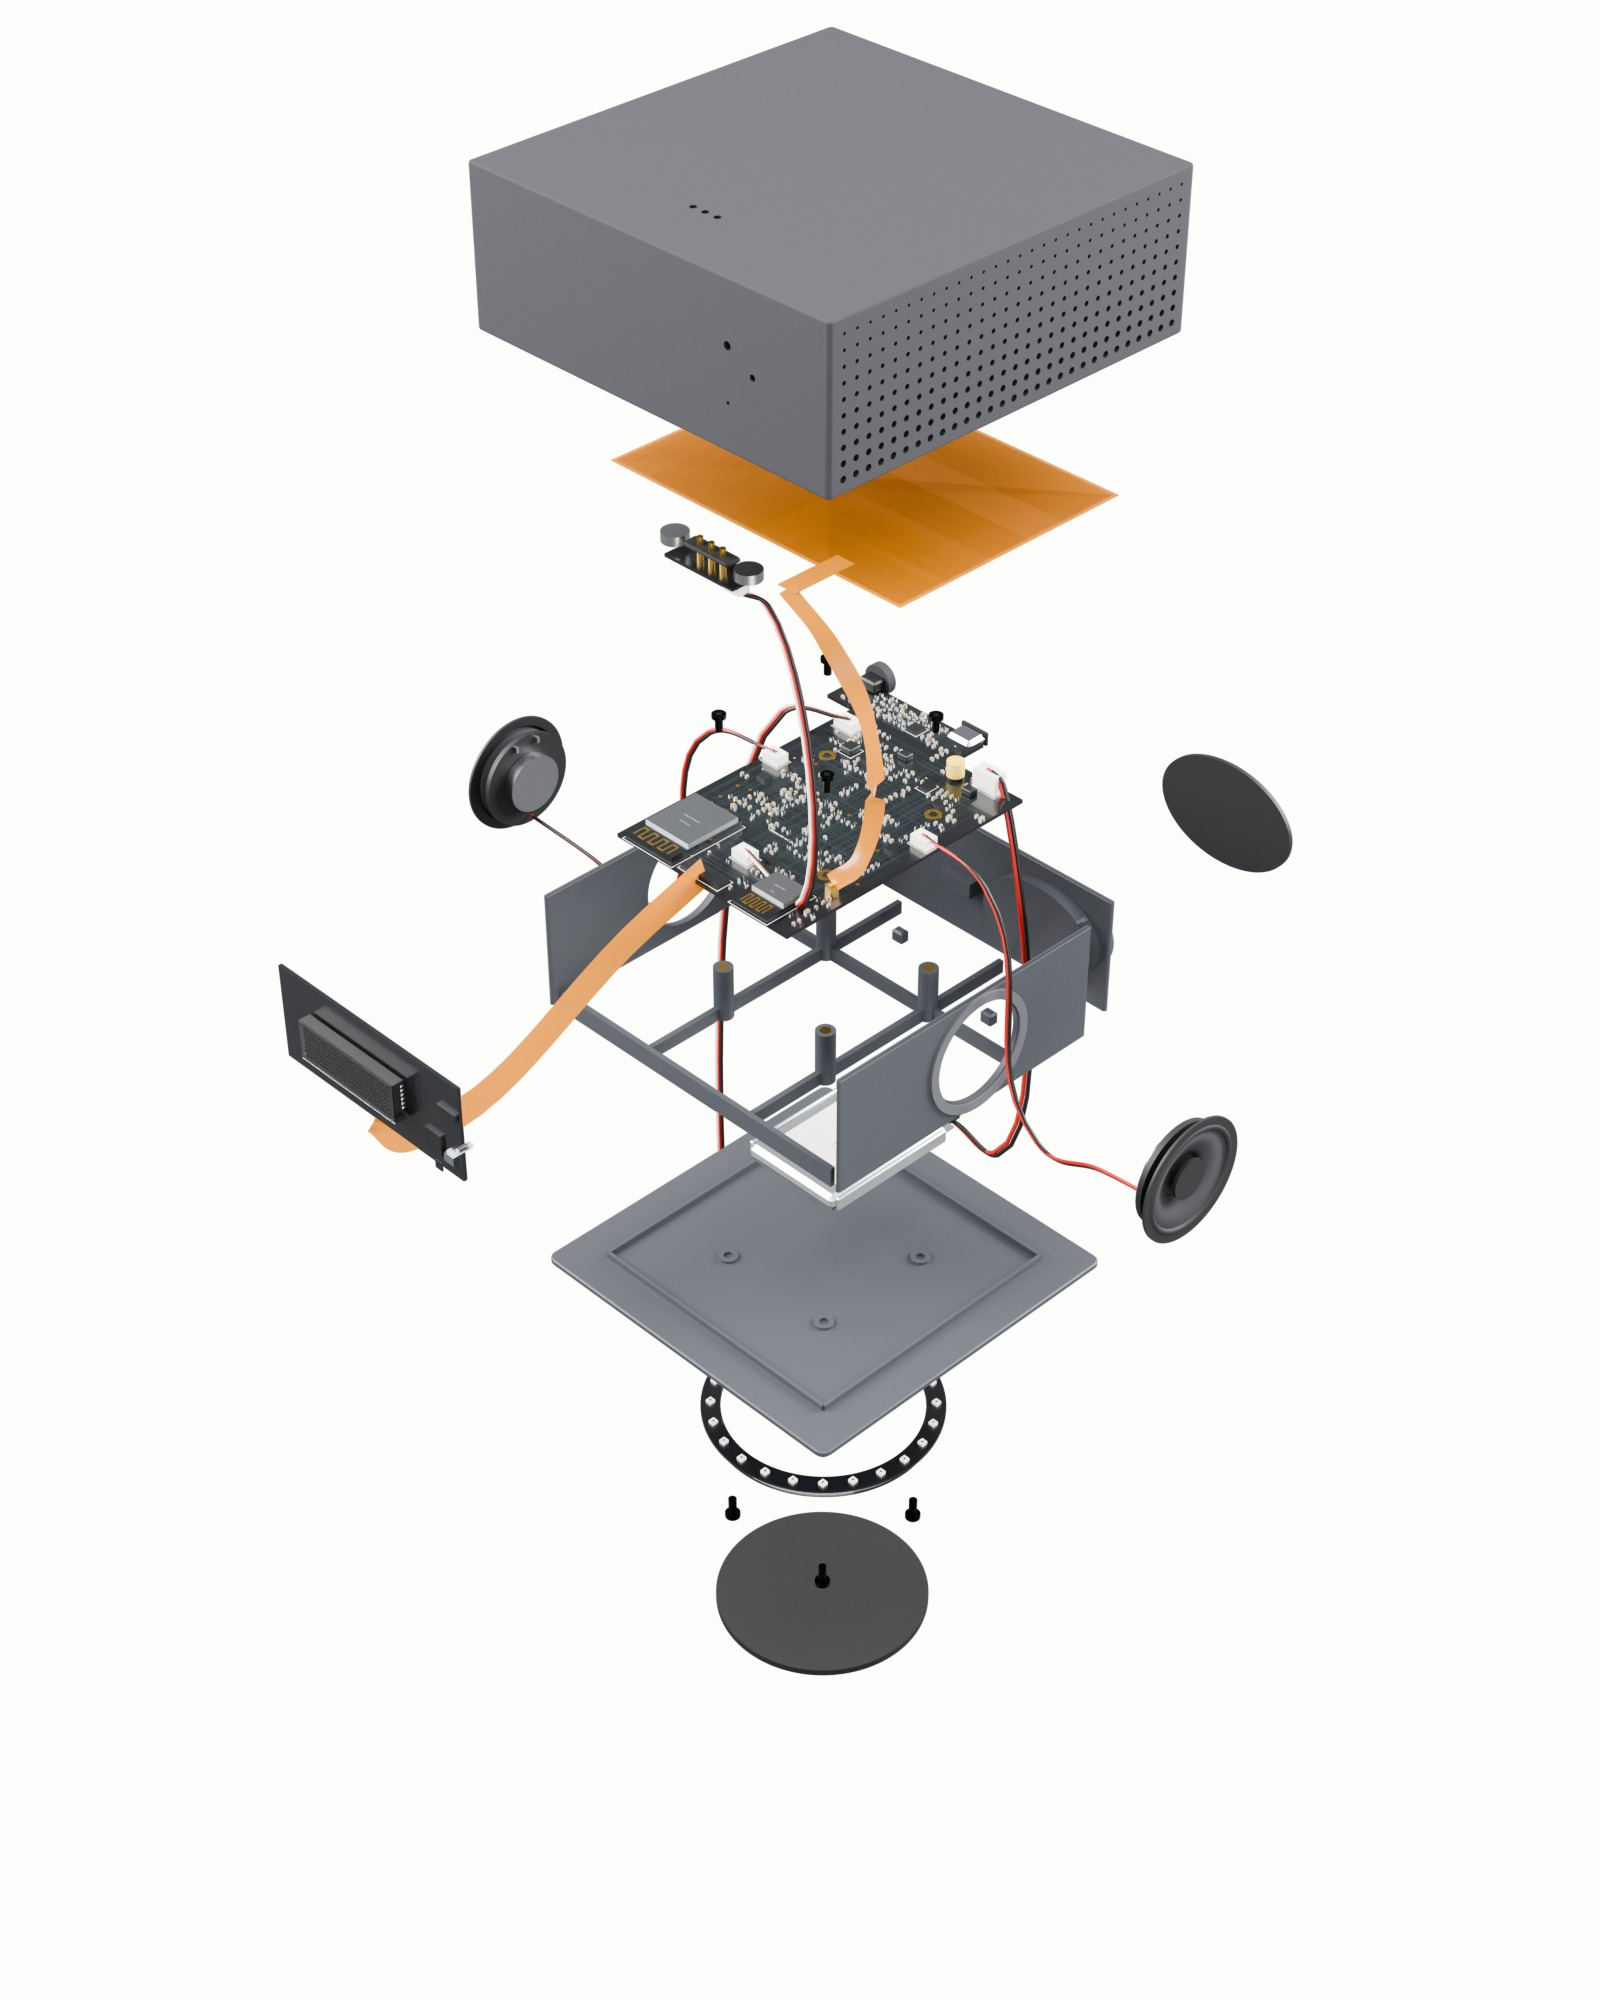
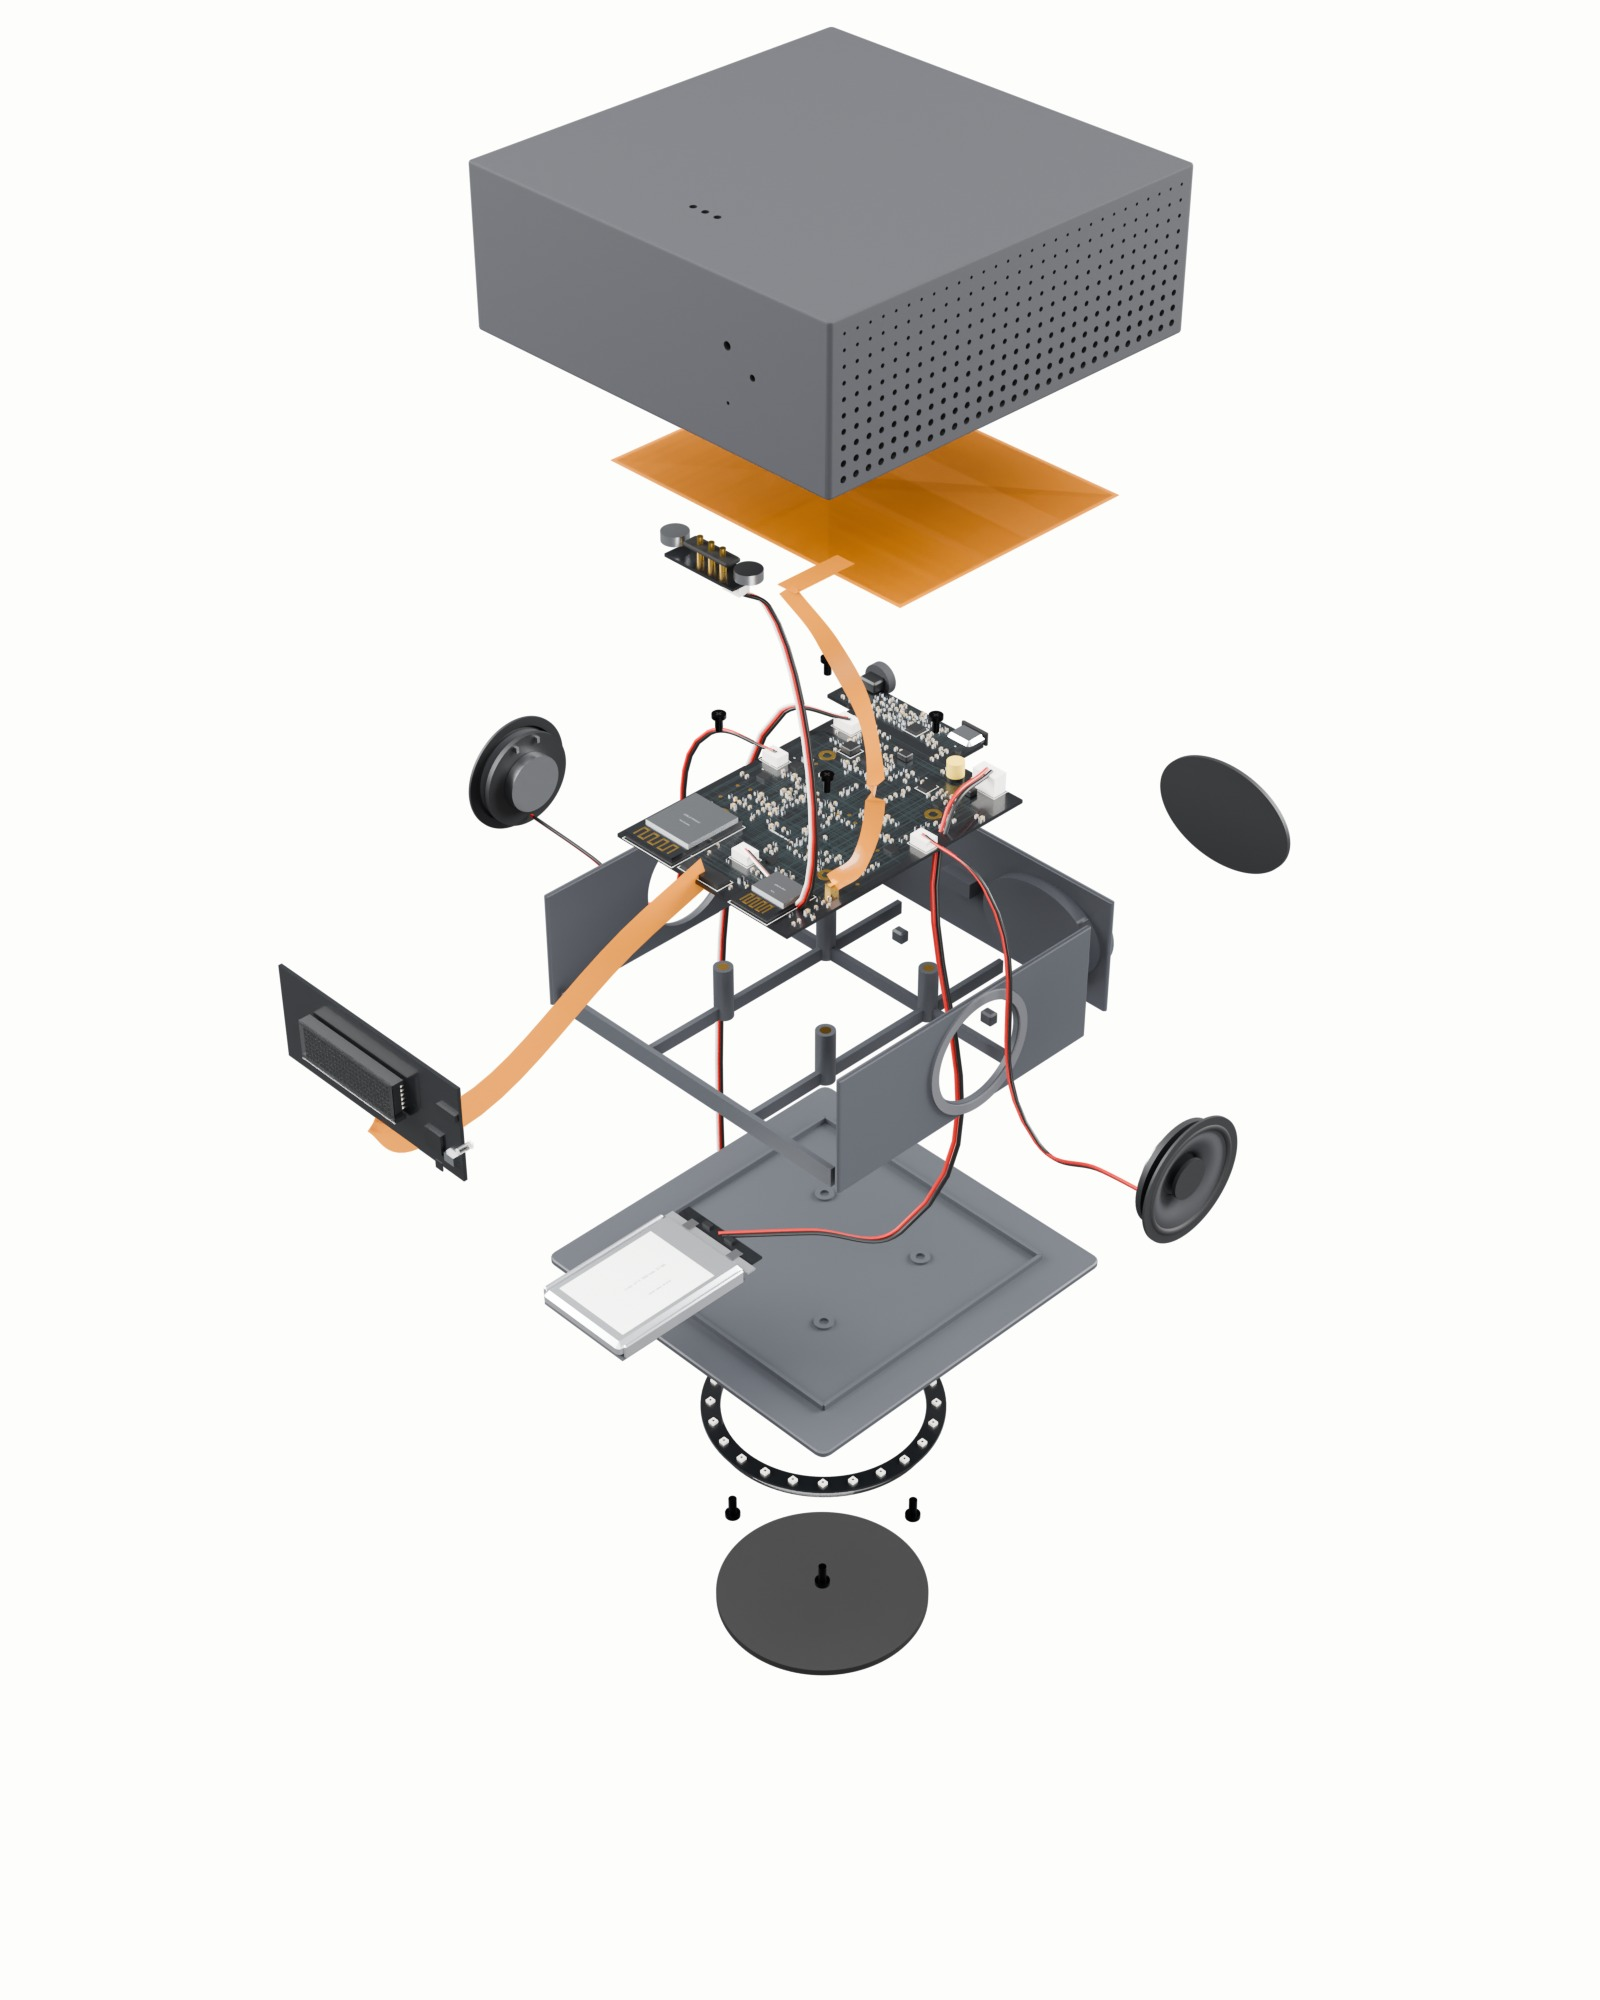
Deck: AuraWake teardown finished: cell within its 34 mm, both exploded views re-rendered and re-anchored

diff --git a/deck/index.html b/deck/index.html
@@ -1157,7 +1157,7 @@
   // AuraWake · inside (spec §8.2): the exploded drawing (aura.py line explode, internals.py) with 16 numbered parts.
   const ex = document.querySelector('[data-explode]');
   if (ex) {
-    const PT = {"shell": [499.9, 158.3], "pins": [448.3, 314.6], "magnets": [465.1, 327.3], "touch": [588.3, 281.6], "matrix": [279.8, 543.2], "status": [343.1, 580.0], "s3": [435.0, 433.7], "h2": [478.3, 466.5], "usbc": [569.5, 388.9], "btn": [527.0, 352.6], "spk": [668.2, 600.0], "pr": [716.0, 424.2], "chassis": [542.7, 534.7], "batt": [500.0, 603.7], "plate": [499.9, 717.3], "ring": [531.6, 773.3], "disc": [473.6, 892.3]};
+    const PT = {"shell": [500.5, 158.3], "pins": [449.0, 314.6], "magnets": [465.7, 327.3], "touch": [589.0, 281.6], "matrix": [280.4, 543.2], "status": [343.7, 580.0], "s3": [435.7, 433.7], "h2": [478.9, 466.5], "usbc": [570.2, 388.9], "btn": [527.7, 352.6], "spk": [668.9, 600.0], "pr": [715.4, 425.0], "chassis": [543.3, 534.7], "batt": [397.5, 670.7], "plate": [500.5, 717.3], "ring": [532.2, 773.3], "disc": [474.2, 892.3]};
     const PARTS = [
       ['shell', 'Shell', 'PC/ABS satin, 2 mm; grilles and micro-holes', 'r'],
       ['touch', 'Touch electrode', 'copper on polyimide, read by the ESP32-S3', 'r'],
@@ -1192,7 +1192,7 @@
   // out/xreal/explode-real.json, the same parts and numbers as the line drawing).
   const exr = document.querySelector('[data-explode-real]');
   if (exr) {
-    const PT = {"shell": [830.7, 161.6], "pins": [711.3, 542.2], "magnets": [748.6, 568.8], "touch": [1022.9, 482.8], "matrix": [327.8, 1058.7], "status": [457.6, 1152.0], "s3": [692.0, 818.3], "h2": [780.3, 887.2], "usbc": [966.2, 733.0], "btn": [880.7, 664.5], "spk": [1190.2, 1179.8], "pr": [1232.2, 809.7], "chassis": [916.5, 1033.1], "batt": [825.1, 1149.0], "plate": [823.5, 1373.3], "ring": [880.8, 1445.5], "disc": [776.6, 1622.9]};
+    const PT = {"shell": [830.7, 161.6], "pins": [711.3, 542.2], "magnets": [748.6, 568.8], "touch": [1022.9, 482.8], "matrix": [327.8, 1058.7], "status": [457.6, 1152.0], "s3": [692.0, 818.3], "h2": [780.3, 887.2], "usbc": [966.2, 733.0], "btn": [880.7, 664.5], "spk": [1190.2, 1179.8], "pr": [1230.0, 811.0], "chassis": [916.5, 1033.1], "batt": [618.3, 1293.9], "plate": [823.5, 1373.3], "ring": [880.8, 1445.5], "disc": [776.6, 1622.9]};
     const ORDER = [['shell', 'r'], ['touch', 'r'], ['pins', 'l'], ['magnets', 'l'], ['s3', 'l'], ['h2', 'r'], ['usbc', 'r'], ['btn', 'r'],
       ['matrix', 'l'], ['status', 'l'], ['spk', 'r', 'pr'], ['chassis', 'r'], ['batt', 'l'], ['plate', 'r'], ['ring', 'r'], ['disc', 'l']];
     let g = `<image href="assets/aurawake/explode-real.jpg" x="0" y="0" width="1600" height="2000" />`;

diff --git a/deck/blender/internals.py b/deck/blender/internals.py
@@ -368,10 +368,10 @@ def battery():
          '3.7 Wh: ≈ 9 h of standby plus the alarm sound if the power goes; never runs the room')
     z = FLOOR + 0.0012; obs = []                       # on a foam pad over the light-ring board
     obs.append(box('foam_pad', 0.032, 0.046, 0.0008, 0.0, 0.010, z - 0.0004, 'foam'))
-    obs.append(box('cell', 0.034, 0.047, 0.005, 0.0, 0.0095, z + 0.0004, 'battery', 0.0015))
+    obs.append(box('cell', 0.0316, 0.047, 0.005, 0.0, 0.0095, z + 0.0004, 'battery', 0.0015))   # 34 mm wide with its folds
     obs.append(box('cell_seal', 0.034, 0.003, 0.0006, 0.0, 0.0345, z + 0.0026, 'battery'))
     for sx in (-1, 1):                                  # folded side seals
-        obs.append(box(f'cell_fold{sx}', 0.0012, 0.044, 0.0045, sx * 0.0176, 0.0095, z + 0.0006, 'battery', 0.0004))
+        obs.append(box(f'cell_fold{sx}', 0.0012, 0.044, 0.0045, sx * 0.0164, 0.0095, z + 0.0006, 'battery', 0.0004))
     obs.append(box('pcm', 0.030, 0.004, 0.0008, 0.0, 0.0385, z + 0.0026, 'pcb'))
     obs.append(box('pcm_ic', 0.003, 0.0016, 0.0009, -0.005, 0.0385, z + 0.0034, 'chip'))
     obs.append(box('pcm_fet', 0.003, 0.0016, 0.0009, 0.004, 0.0385, z + 0.0034, 'chip'))

diff --git a/HANDOFF.md b/HANDOFF.md
@@ -1269,6 +1269,11 @@ When a CLOUD session hits something that needs the local environment, it must:
   discs in the line drawing). Real render: softbox light, AgX medium-high contrast. Slides 39–40 re-anchored, the
   radiator shares number 11 ("Sound"). Spec §8.2 updated. NB: the fork session (JustCook) has uncommitted work in
   deck/index.html and export_schemas.mjs; my small index.html edits (inside slides) ride with its commit.
+- **2026-10-30 · LOCAL (72)** · Teardown finished (continuation session): the cell's folded seals now sit inside its
+  34 mm width (they stuck out 0.6 mm a side and touched the ±20 mm bosses; 0.2 mm clearance left, spec notes the
+  production fix), battery exploded forward (−80 mm) so it shows, radiator frame set on the back baffle. Line and
+  photoreal exploded views re-rendered (final 1600 × 2000), both PT anchor sets re-pasted, schemas re-exported to
+  Media/05-AuraWake/Schemi. Spec §8.2 fit notes updated (board y −46…+42 + tab, cell 34 × 47 × 5).
 - **2026-10-30 · LOCAL (71)** · JustCook (02) filled in the PDF: 12 slides after its cover (overview, context, research
   with the real fridge photos, insights with a translated interview quote, framing with the two archetypes and three
   principles, the six reframing cycles, a two-lane service diagram, course prototype vs final design, solution, the
